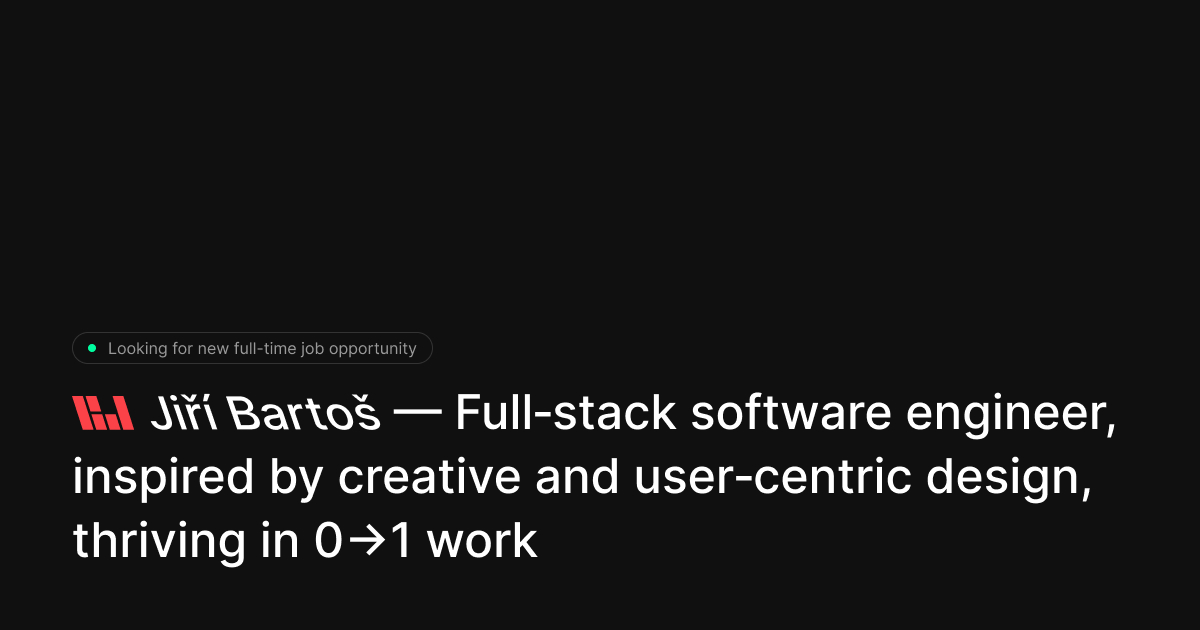
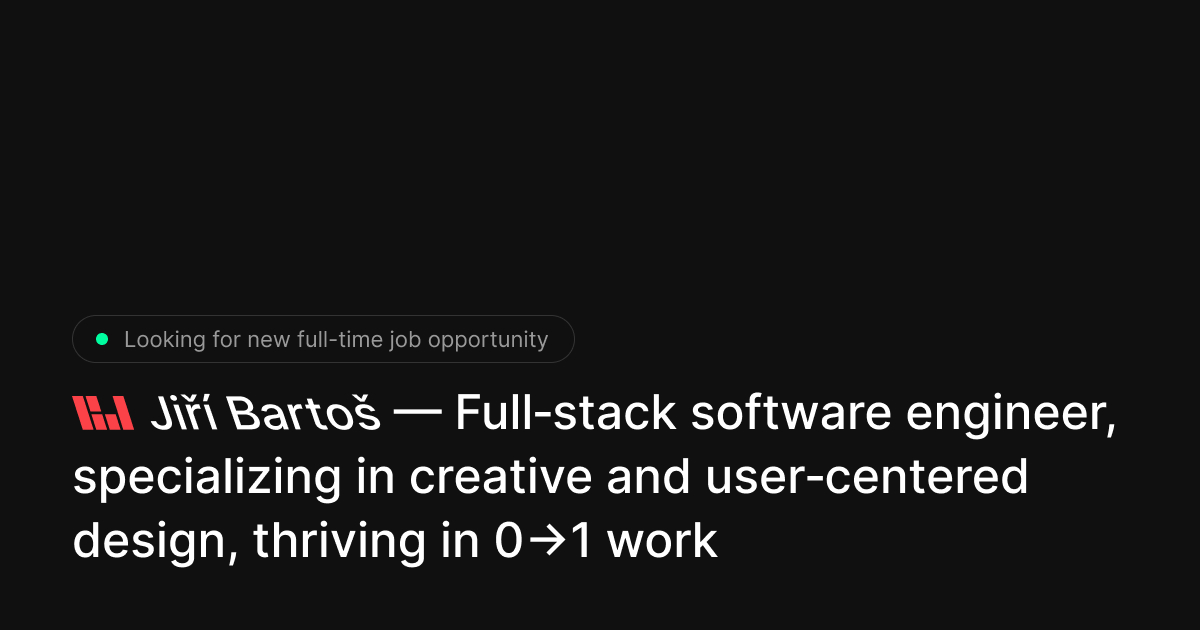
Update bio & minor updates

Changed region(s): [[0.0617, 0.7238, 0.925, 0.9048], [0.0617, 0.5127, 0.4625, 0.6032]]

diff --git a/src/modules/projects/projects.ts b/src/modules/projects/projects.ts
@@ -25,14 +25,6 @@ export const PROJECTS: ProjectT[] = [
 		timeframe: 'December 2023'
 	},
 	{
-		title: 'Weardrobe',
-		logo: WeardrobeLogo,
-		logoOutline: WeardrobeLogoOutline,
-		description: 'A community-curated digital fashion gallery',
-		href: 'https://weardrobe.xyz',
-		timeframe: 'Now'
-	},
-	{
 		title: 'Multisight',
 		logo: MultisightLogo,
 		logoOutline: MultisightLogoOutline,
@@ -57,7 +49,7 @@ export const PROJECTS: ProjectT[] = [
 		timeframe: 'May 2023'
 	},
 	{
-		title: 'Hyperhidrosis.help',
+		title: 'Hyperhidrosis Help',
 		logo: HyperhidrosisLogo,
 		logoOutline: HyperhidrosisLogoOutline,
 		description: 'An educational microsite about hyperhidrosis',
@@ -65,7 +57,15 @@ export const PROJECTS: ProjectT[] = [
 		timeframe: 'April 2023'
 	},
 	{
-		title: 'Goblinphone',
+		title: 'Weardrobe',
+		logo: WeardrobeLogo,
+		logoOutline: WeardrobeLogoOutline,
+		description: 'A community-curated digital fashion gallery',
+		href: 'https://weardrobe.xyz',
+		timeframe: 'November 2022'
+	},
+	{
+		title: 'Goblin Phone',
 		logo: GoblinphoneLogo,
 		logoOutline: GoblinphoneLogoOutline,
 		description: 'An NFT collection derivative art project',

diff --git a/src/routes/+page.svelte b/src/routes/+page.svelte
@@ -34,8 +34,8 @@
 <section class:intro={true}>
 	<h1>
 		{@html BartosjiriLogo}
-		<span>Jiří&nbsp;Bartoš</span> — Full&#8209;stack software engineer, inspired&nbsp;by creative and&nbsp;user&#8209;centric
-		design, thriving&nbsp;in 0→1&nbsp;work
+		<span>Jiří&nbsp;Bartoš</span> — Full&#8209;stack software engineer, specializing&nbsp;in creative
+		and&nbsp;user&#8209;centered design, thriving&nbsp;in 0→1&nbsp;work
 	</h1>
 </section>
 
@@ -44,11 +44,11 @@
 <section class:now-and-next={true}>
 	<div class:item={true}>
 		<h2>Currently&nbsp;</h2>
-		<p>building more side-projects, diving into AR development</p>
+		<p>building more side-projects, learning and thinking about sustainable future</p>
 	</div>
 	<div class:item={true}>
 		<h2>Later&nbsp;</h2>
-		<p>starting a little personal company, getting a puppy</p>
+		<p>exploring computer graphics & AR development, getting a puppy</p>
 	</div>
 </section>
 

diff --git a/src/util/meta/meta.config.ts b/src/util/meta/meta.config.ts
@@ -1,9 +1,9 @@
-export const META_DOMAIN = 'https://about.bartosjiri.com';
+export const META_DOMAIN = 'https://bartosjiri.com';
 
-export const META_TITLE = `About — bartosjiri`;
+export const META_TITLE = `bartosjiri`;
 export const META_DESCRIPTION =
-	'Jiří Bartoš — Full-stack software engineer, inspired by creative and user-centric design, thriving in 0→1 work';
-export const META_KEYWORDS = ['bartosjiri', 'full-stack', 'software', 'engineer'];
+	'Jiří Bartoš — Full-stack software engineer, specializing in creative and user-centered design, thriving in 0→1 work';
+export const META_KEYWORDS = ['bartosjiri', 'Jiří Bartoš', 'full-stack', 'software', 'engineer'];
 
 export const META_THEME_COLOR = '#101010';
 export const META_APPLE_COLOR = '#fb4248';
